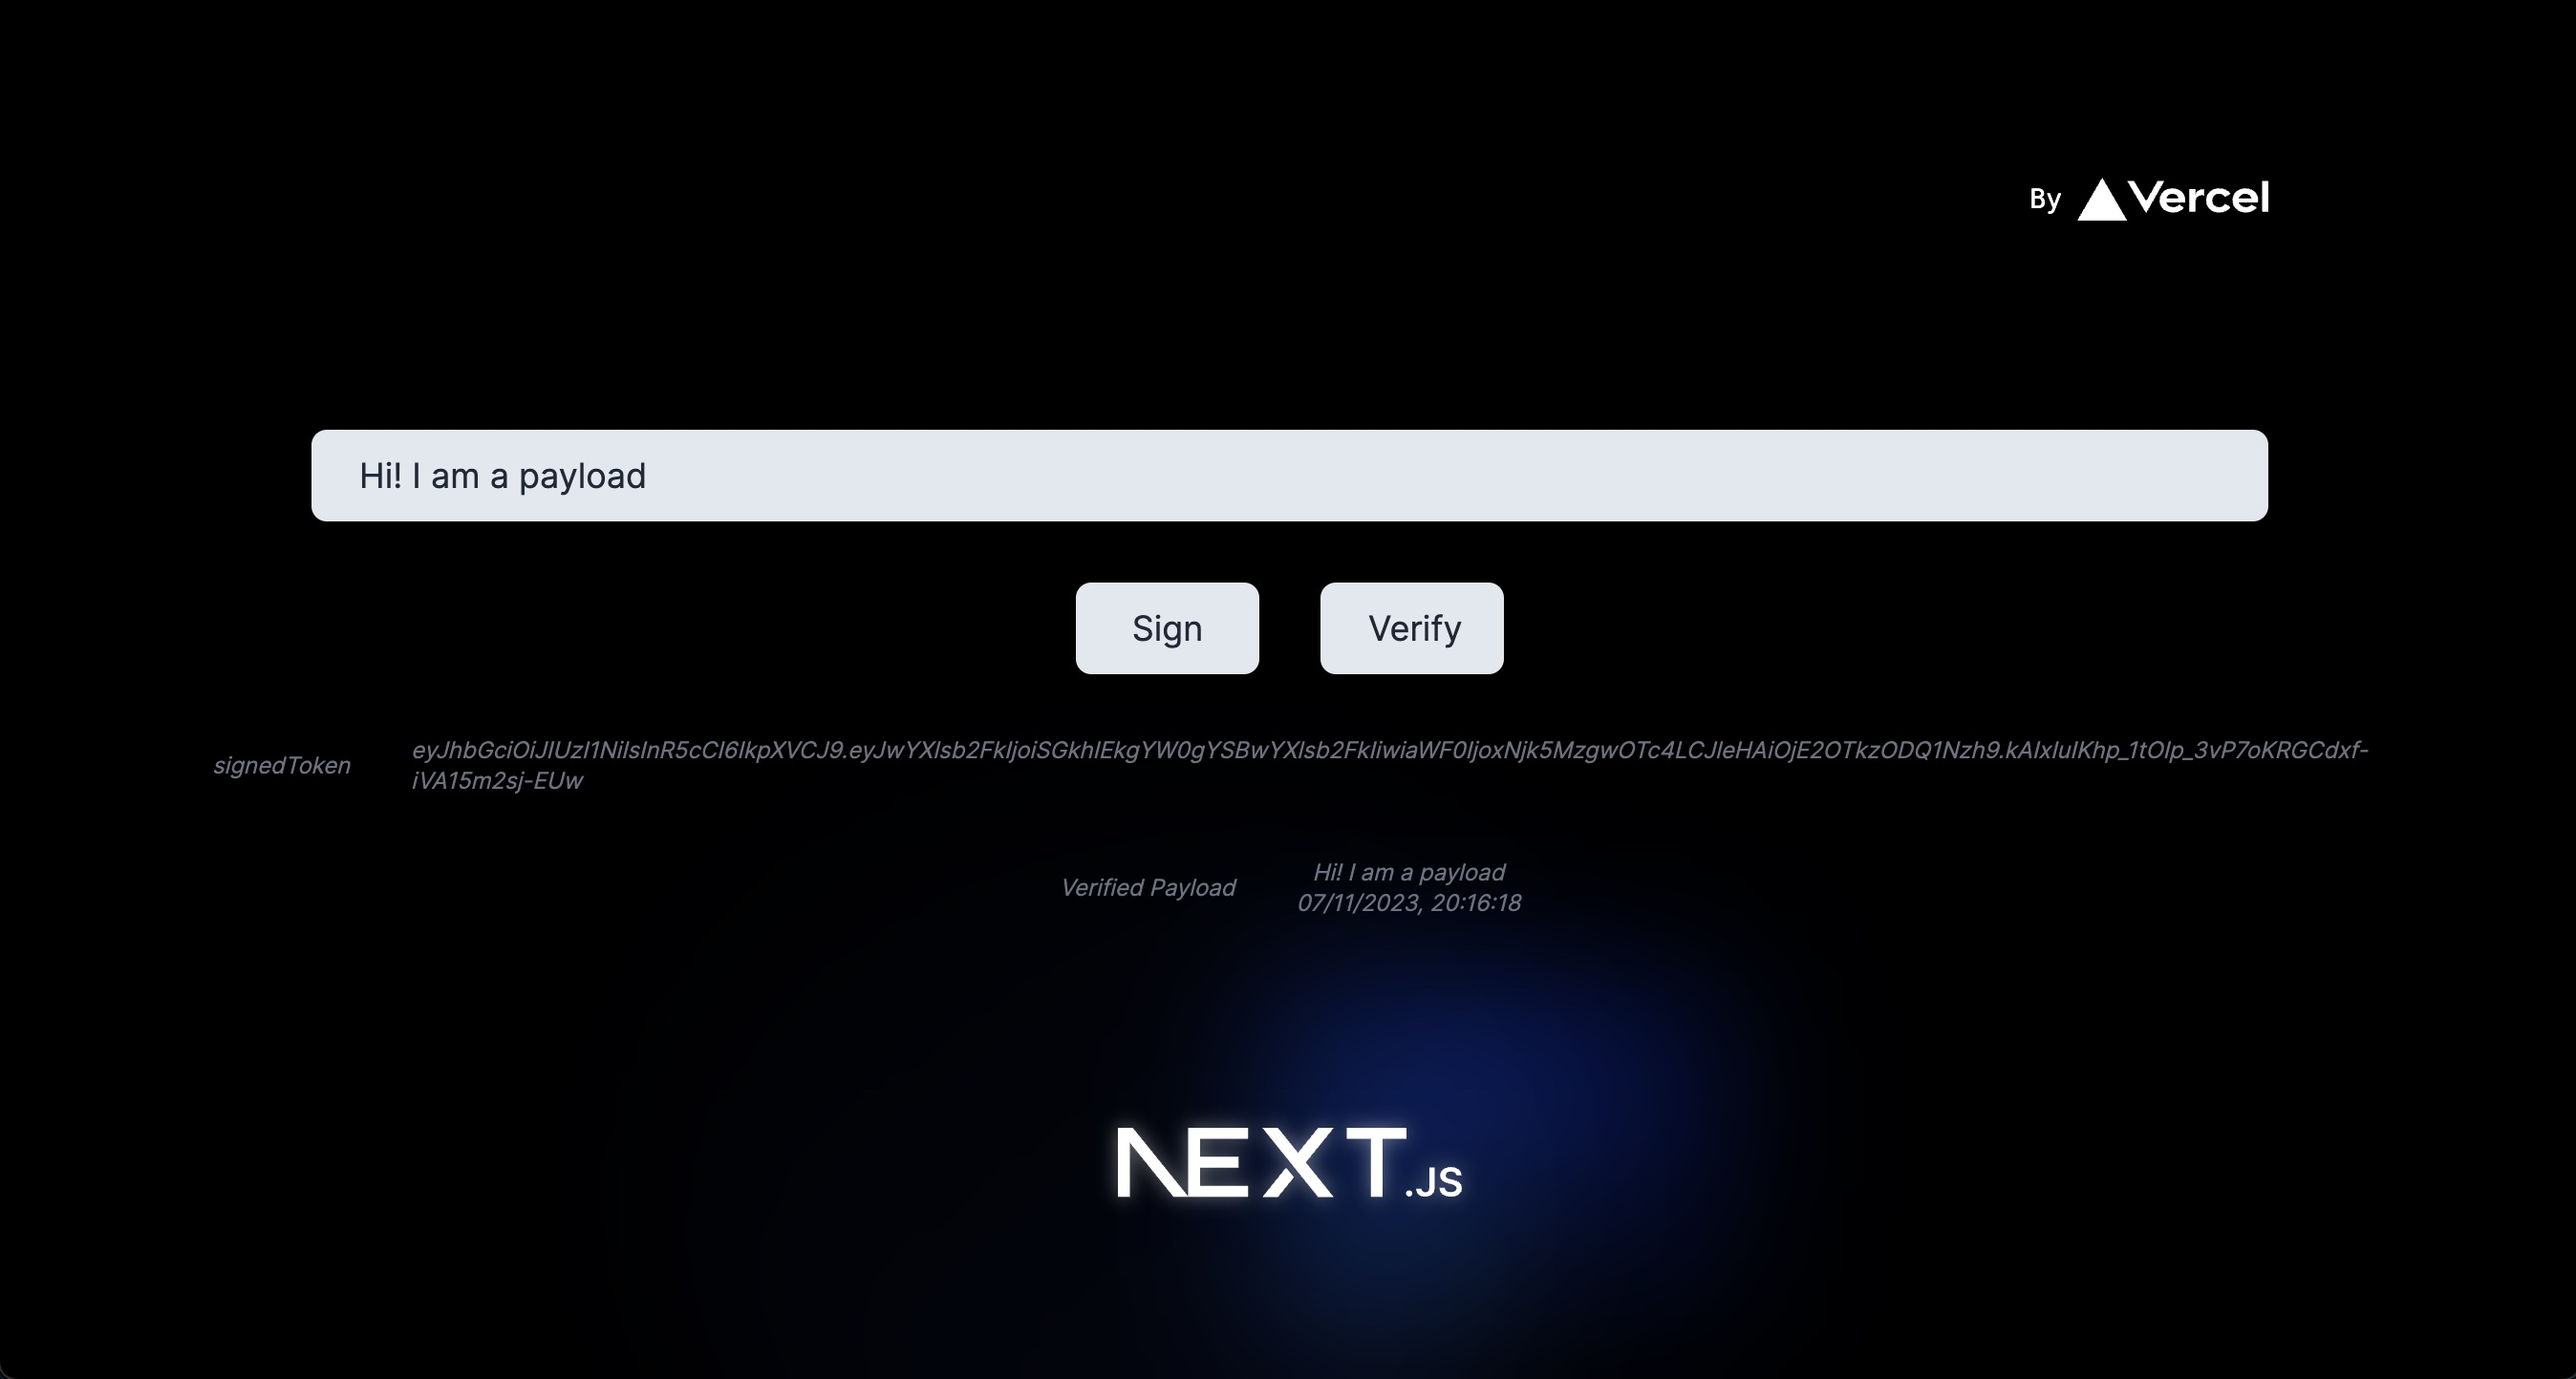
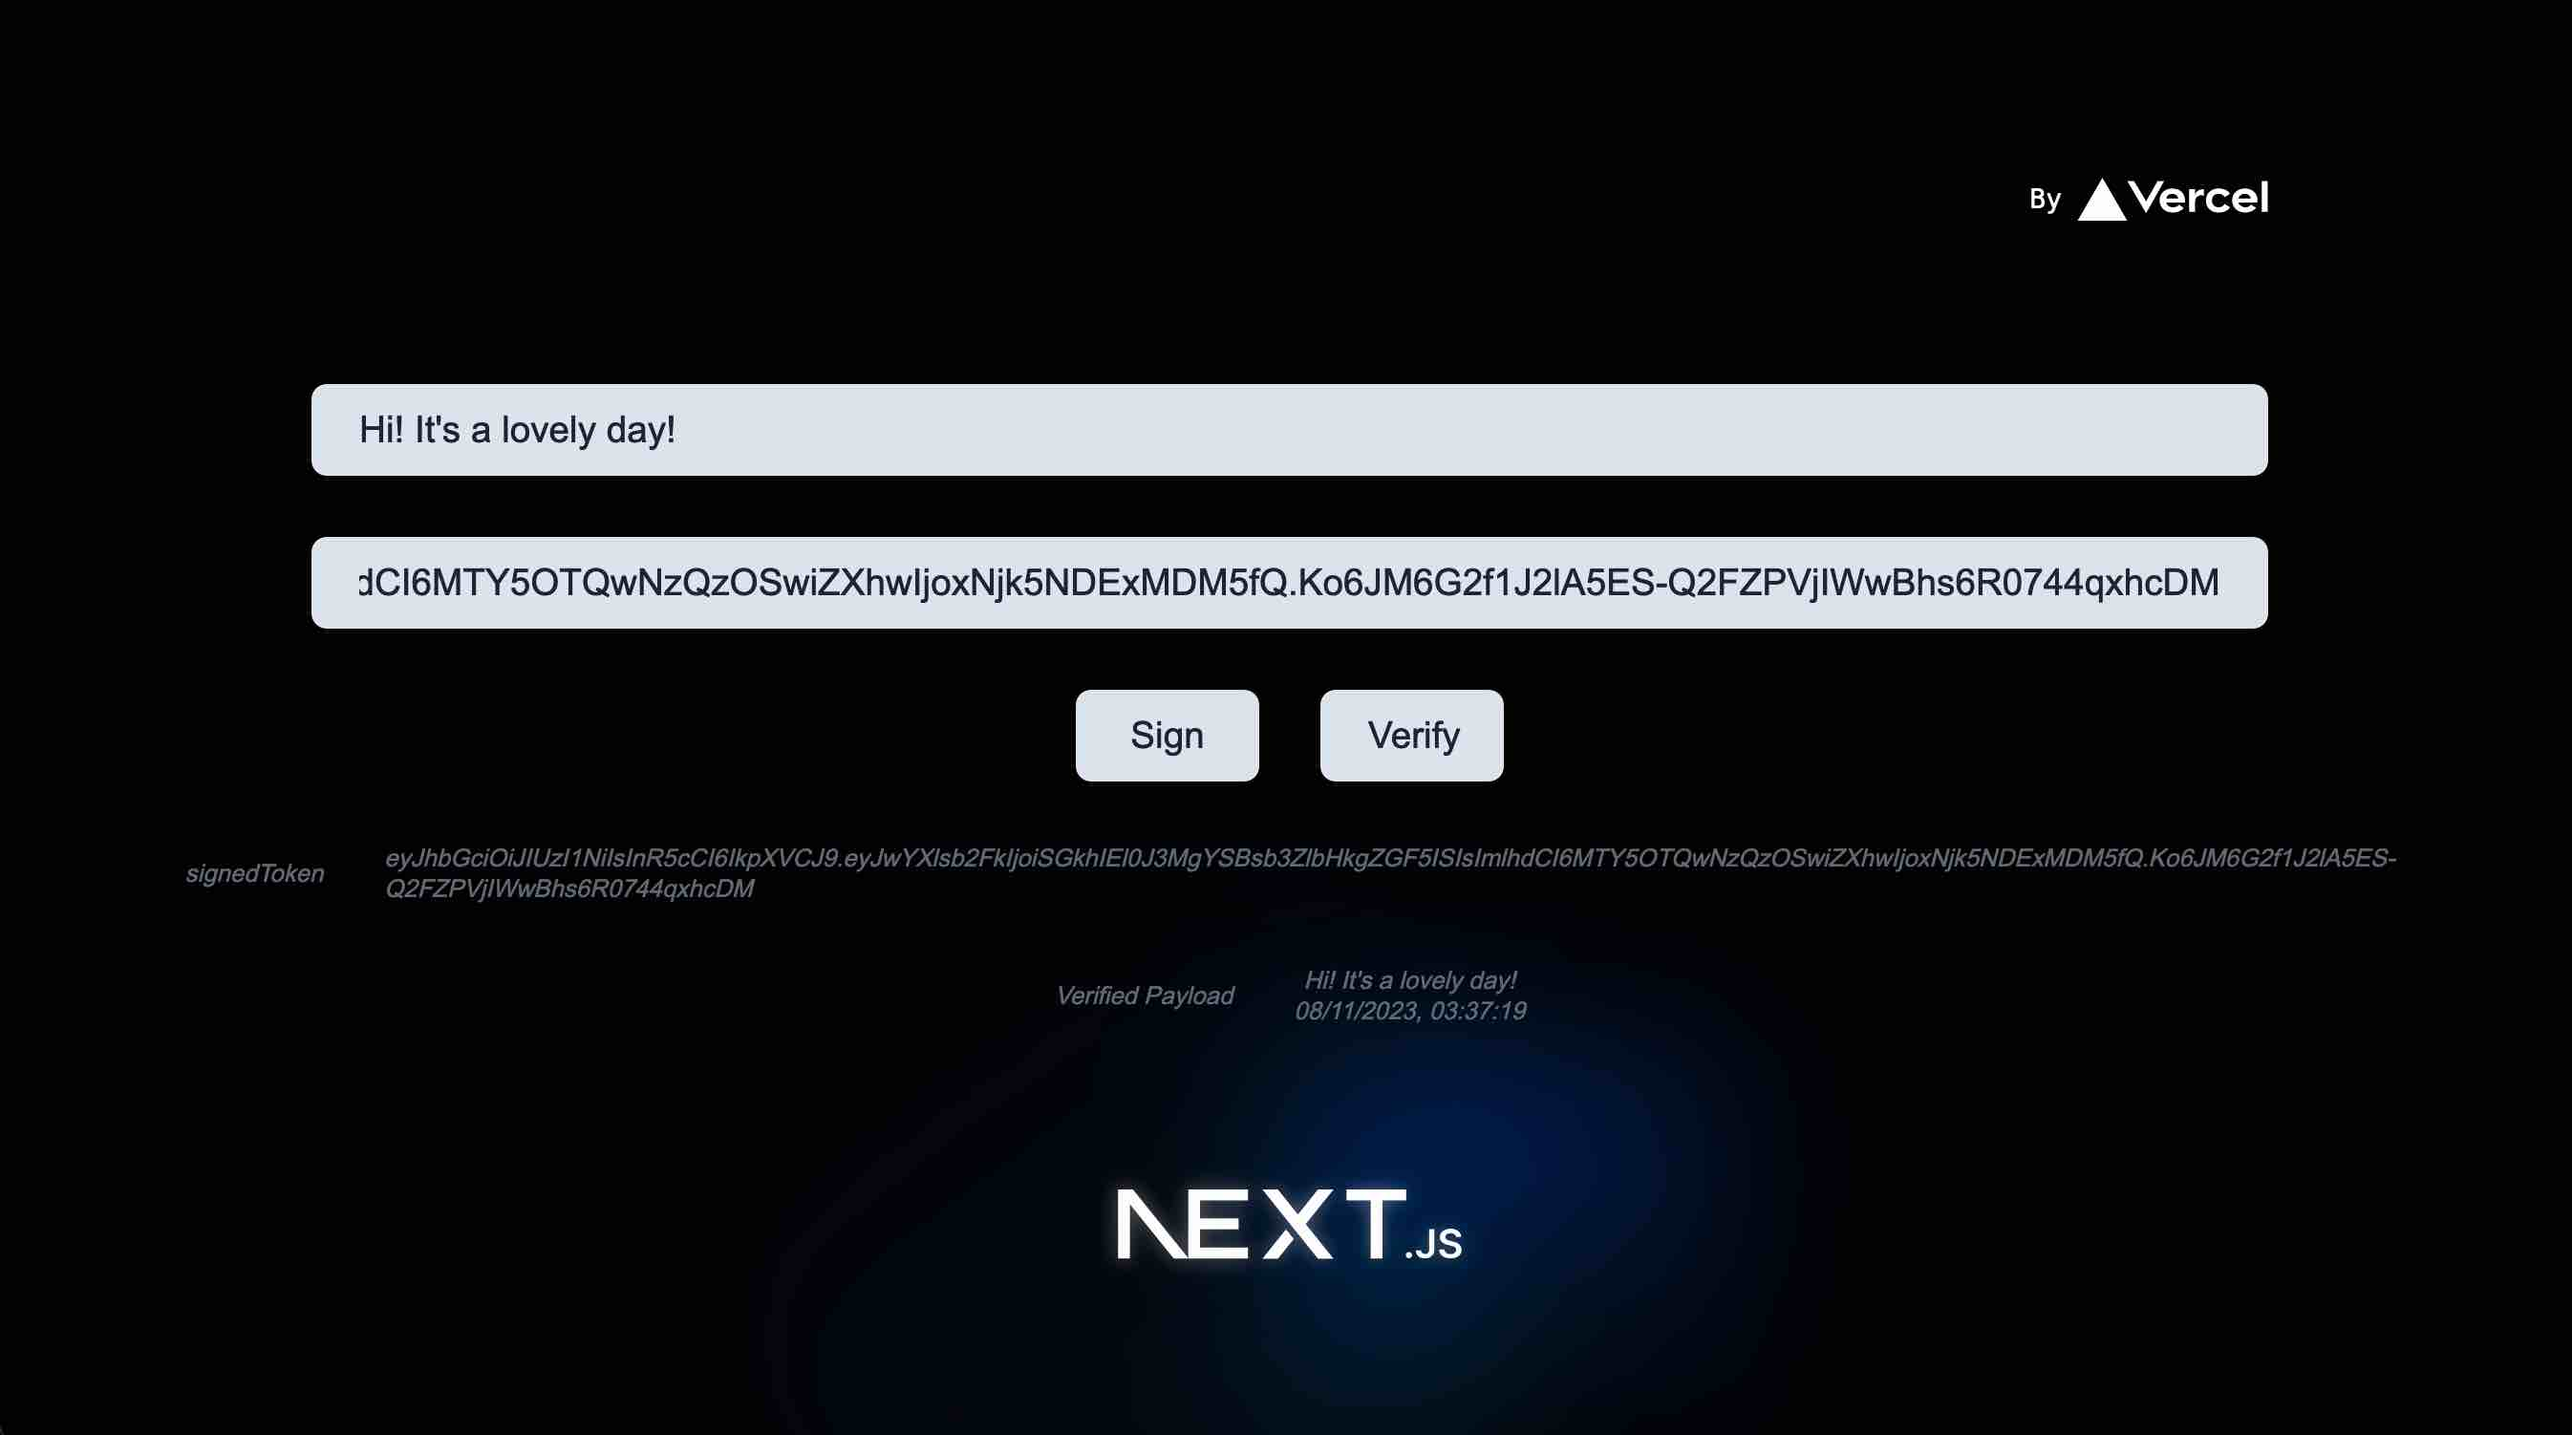
chore: add verify token input

diff --git a/app/components/PayloadMessage/index.tsx b/app/components/PayloadMessage/index.tsx
@@ -18,6 +18,13 @@ export const PayloadMessage = ()=>{
                 }
                 setPayload(e.target.value);
             })}/>
+            <input className="w-full h-12 px-6 text-lg bg-slate-200 text-gray-800 placeholder-gray-500 border rounded-lg focus:shadow-outline" placeholder="Token to verify..." 
+            onChange={(e=>{
+                if(e.target.value === null){
+                    return;
+                }
+                setSignedToken(e.target.value);
+            })}/>
             <div className='flex flex-row items-center justify-center gap-8'>
                 <button className='w-24 h-12 px-6 text-lg bg-slate-200 text-gray-800 border rounded-lg focus:shadow-outline'
                 onClick={
@@ -37,9 +44,17 @@ export const PayloadMessage = ()=>{
                     (e) => {
                         e.preventDefault();
                         (async () => {
-                            const verifiedPayload = await verifyTokenAction(signedToken!);
-                            const decodedPayload = decodePayload(verifiedPayload!);
-                            setVerifiedPayload(decodedPayload);
+                            try{
+                                const verifiedPayload = await verifyTokenAction(signedToken!);
+                                const decodedPayload = decodePayload(verifiedPayload!);
+                                setVerifiedPayload(decodedPayload);
+                            }catch(err){
+                                setVerifiedPayload({
+                                    payload:'Invalid Token!',
+                                    exp:'',
+                                })
+                            }
+                            
                         })();
                     }
                 }>
